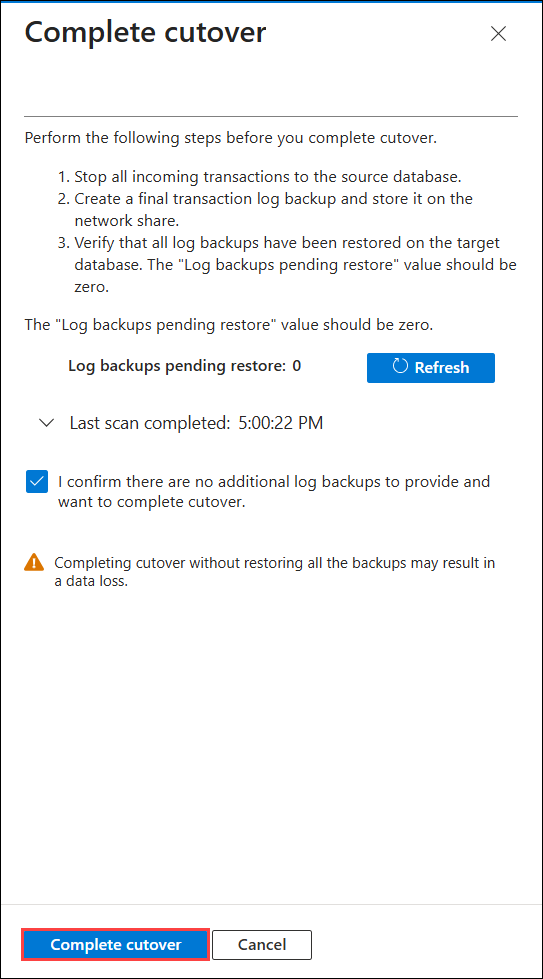
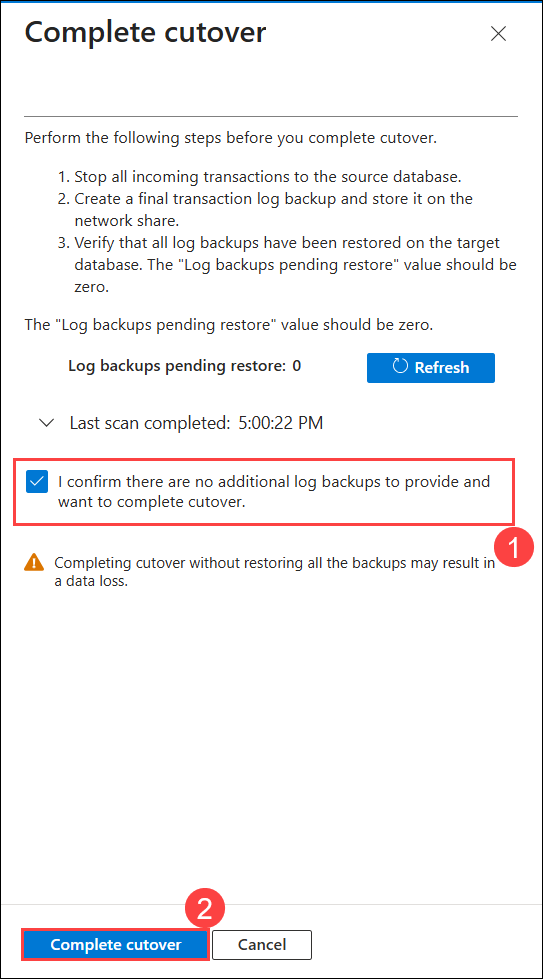
update

Changed region(s): [[0.884, 0.4597, 1.0, 0.5822], [0.3241, 0.8887, 0.4125, 0.9499], [0.0, 0.4597, 0.0295, 0.5209]]

diff --git a/New-HOL/01-SQL-database-migration.md b/New-HOL/01-SQL-database-migration.md
@@ -51,7 +51,7 @@ The Managed Instance used in this lab was created with the following configurati
 
 In this task, you create a full backup of the WideWorldImporters database using SQL Server Management Studio (SSMS).
 
-1. On the lab virtual machine, click on the **Windows Start** button, type **SQL Server Management Studio (1)**, and then select **Microsoft SQL Server Management Studio 22 (2)** from the search results.
+1. On the lab virtual machine, click on the **Windows Start** button, type **SQL Server Management Studio 22 (1)**, and then select **SQL Server Management Studio 22 (2)** from the search results.
 
    > **Note:** SQL Server Management Studio 22 can take up to a minute to open the first time you launch it.
 
@@ -287,23 +287,7 @@ You have now granted both your lab user account and the SQL Managed Instance rea
 
 In this task, you use Azure Database Migration Service to restore the backup into the Managed Instance and complete the migration.
 
-1. Before you begin, verify whether the SQL Managed Instance is running or stopped.
-
-    > **Note:** The Managed Instance must be running before you start the migration. Azure Database Migration Service cannot restore the backup while the instance is stopped.
-
-1. In the Azure portal **Search** bar, type **SQL managed instances (1)**, and then select it **(2)**.
-
-   ![](img/Lab01/img53.png)
-
-1. Select **SQL managed instances (1)** from the left pane, and then select **sqlmi-hol (2)**.
-
-   ![](img/Lab01/img54.png)
-
-1. Verify the status of the Managed Instance. If it is stopped, select the **Start** button.
-
-   ![](img/Lab01/SQLMI.png)
-
-1. Then in the Azure portal search for **Azure Database Migration Service (1)** and Select **Azure Database Migration Service Resources (2)**
+1. in the Azure portal search for **Azure Database Migration Service (1)** and Select **Azure Database Migration Service Resources (2)**
 
    ![](img/Lab01/imgadms.png)
 
@@ -354,6 +338,7 @@ In this task, you use Azure Database Migration Service to restore the backup int
    - Blob container: **sql-backup**
    - Folder: **Backup**
    - Target database: **WideWorldImporters-<inject key="DeploymentID" enableCopy="false"/>**
+   - Select the checkbox **I confirm the Managed Identity has read access to the above blob container(s)**.
 
    > **Note:** Make sure you enter the target database name with your deployment ID, exactly as shown above. You can copy the exact value from **Your Target Database Name** on the **Environment** tab.
 
@@ -375,7 +360,7 @@ In this task, you use Azure Database Migration Service to restore the backup int
 
    ![](img/Lab01/img49.png)
 
-1. On the **Complete cutover** confirmation page, click on **Complete cutover**.
+1. On the **Complete cutover** pane, select the checkbox **I confirm there are no additional log backups to provide and want to complete cutover (1)**, and then click on **Complete cutover (2)**.
 
    ![](img/Lab01/img51.png)
 
@@ -395,9 +380,9 @@ In this task, you confirm that the migrated database is online on the Managed In
 
    ![](img/Lab01/img54.png)
 
-1. On the left menu, under **Settings**, select **SQL databases**. Confirm that the **WideWorldImporters-<inject key="DeploymentID" enableCopy="false"/>** database is listed with a status of **Online**.
+1. On the **Overview** page of **sqlmi-hol**, scroll down to the **Managed Instance databases** list. In the filter box **(1)**, enter **WideWorldImporters-<inject key="DeploymentID" enableCopy="false"/>**. Confirm that the **WideWorldImporters-<inject key="DeploymentID" enableCopy="false"/>** database is listed with a status of **Online (2)**.
 
-   ![](img/Lab01/img55.png)
+   ![](img/Lab01/SQLMIdb.png)
 
    > **Note:** As `sqlmi-hol` is a shared resource, you may see other databases listed here. Please verify that you are working with the database associated with your deployment ID. For this lab, your target database will be **WideWorldImporters-<inject key="DeploymentID" enableCopy="false"/>**
 

diff --git a/New-HOL/Getting-started.md b/New-HOL/Getting-started.md
@@ -1,6 +1,6 @@
 # Building the Business Migration Case with Windows Server and SQL Server
 
-### Estimated Duration: 8 Hours
+### Overall Estimated Duration: 8 Hours
 
 ## 📘 Lab Scenario
 
@@ -30,9 +30,12 @@ By the end of this lab, you will be able to:
 
 Participants should have:
 
-- Basic understanding of Azure services such as Azure SQL Managed Instance and Azure Virtual Machines.
-- Basic familiarity with SQL Server database concepts and migration.
+- A Microsoft Entra ID user account.
+- An active Azure subscription with permissions to create and manage Azure resources.
+- Basic understanding of Azure services such as Azure SQL Managed Instance, Azure Database Migration Service, Azure Virtual Machines, and Azure Virtual Network.
+- Basic familiarity with SQL Server database concepts, backup and restore, and database migration.
 - Basic familiarity with the Azure portal.
+- Basic awareness of Azure Arc and Azure Backup is helpful.
 
 ## 🏗 Architecture
 
@@ -40,7 +43,7 @@ This architecture represents a hybrid migration workflow. A simulated on-premise
 
 ## 🖼 Architecture Diagram
 
-![](img/Gettingstarted/lab-architecture-diagram.png)
+![](img/Gettingstarted/image.png)
 
 ## 🔍 Explanation of Components
 
@@ -112,7 +115,7 @@ Use the **slider (three vertical dots)** located between the Virtual Machine and
 
 ### Let's Get Started with the Azure Portal
 
-1. On your virtual machine, click on the Azure portal icon.
+1. On your virtual machine, click on the **Azure Portal** icon.
 
    ![](img/Gettingstarted/img5.png)
 
